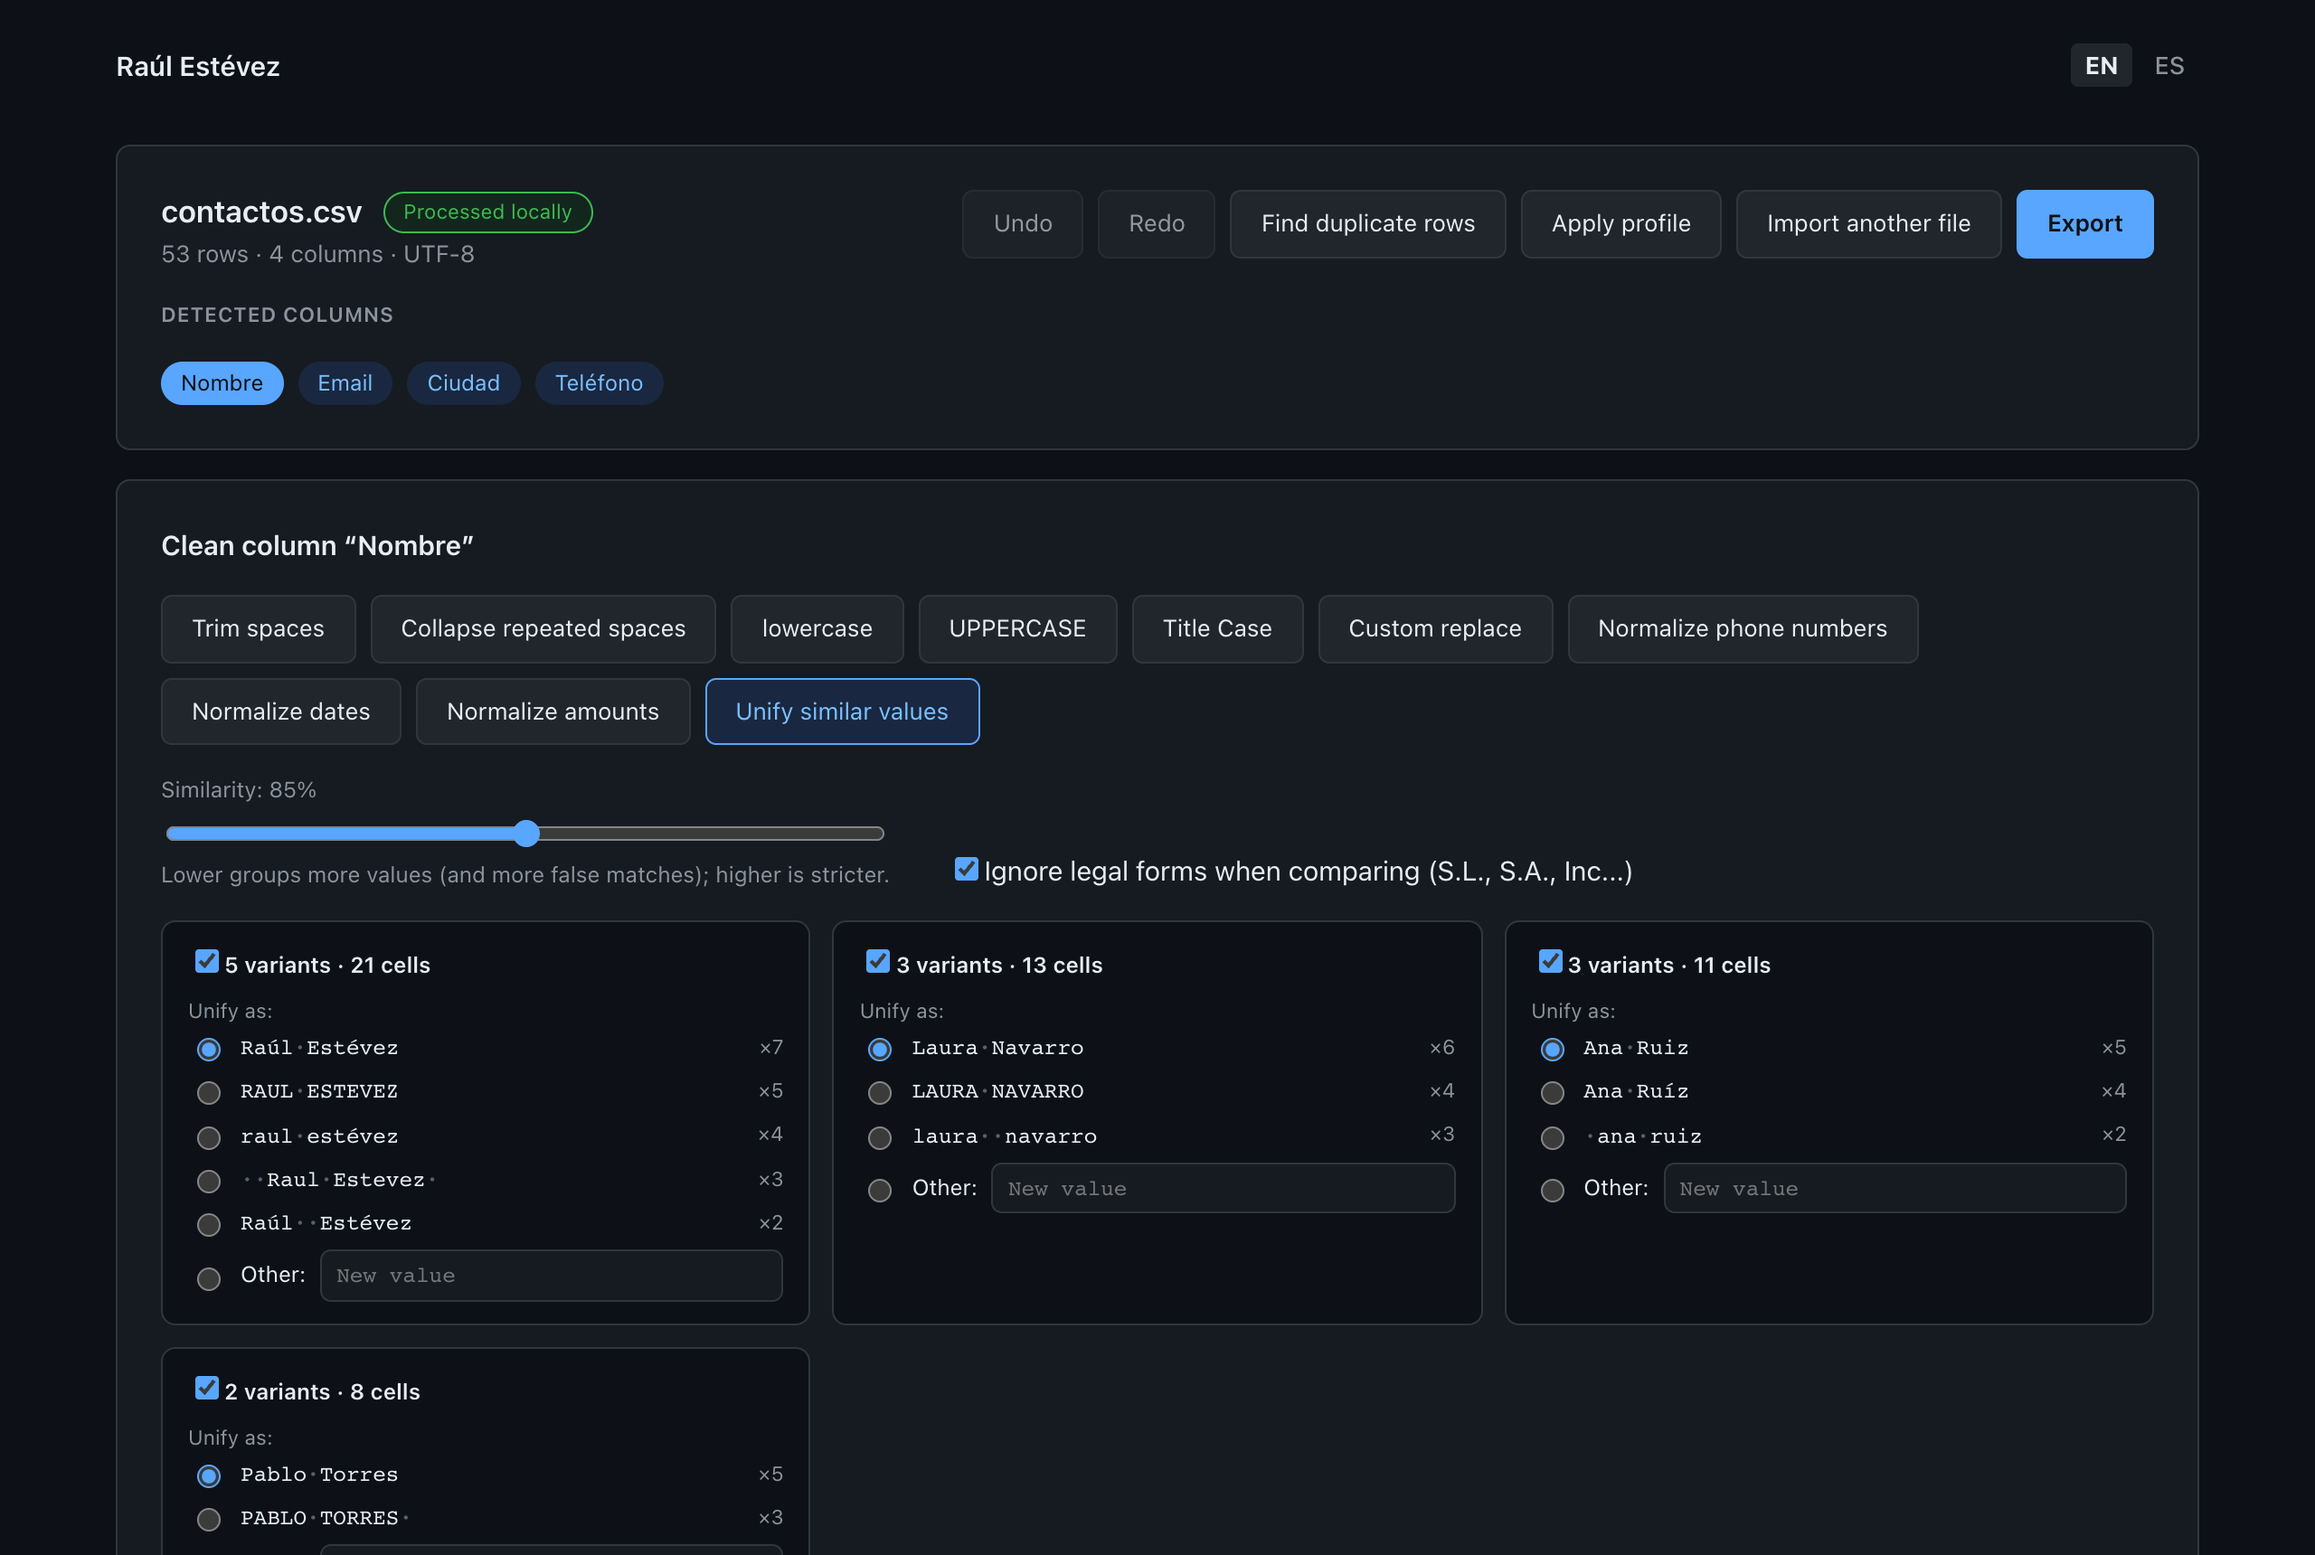
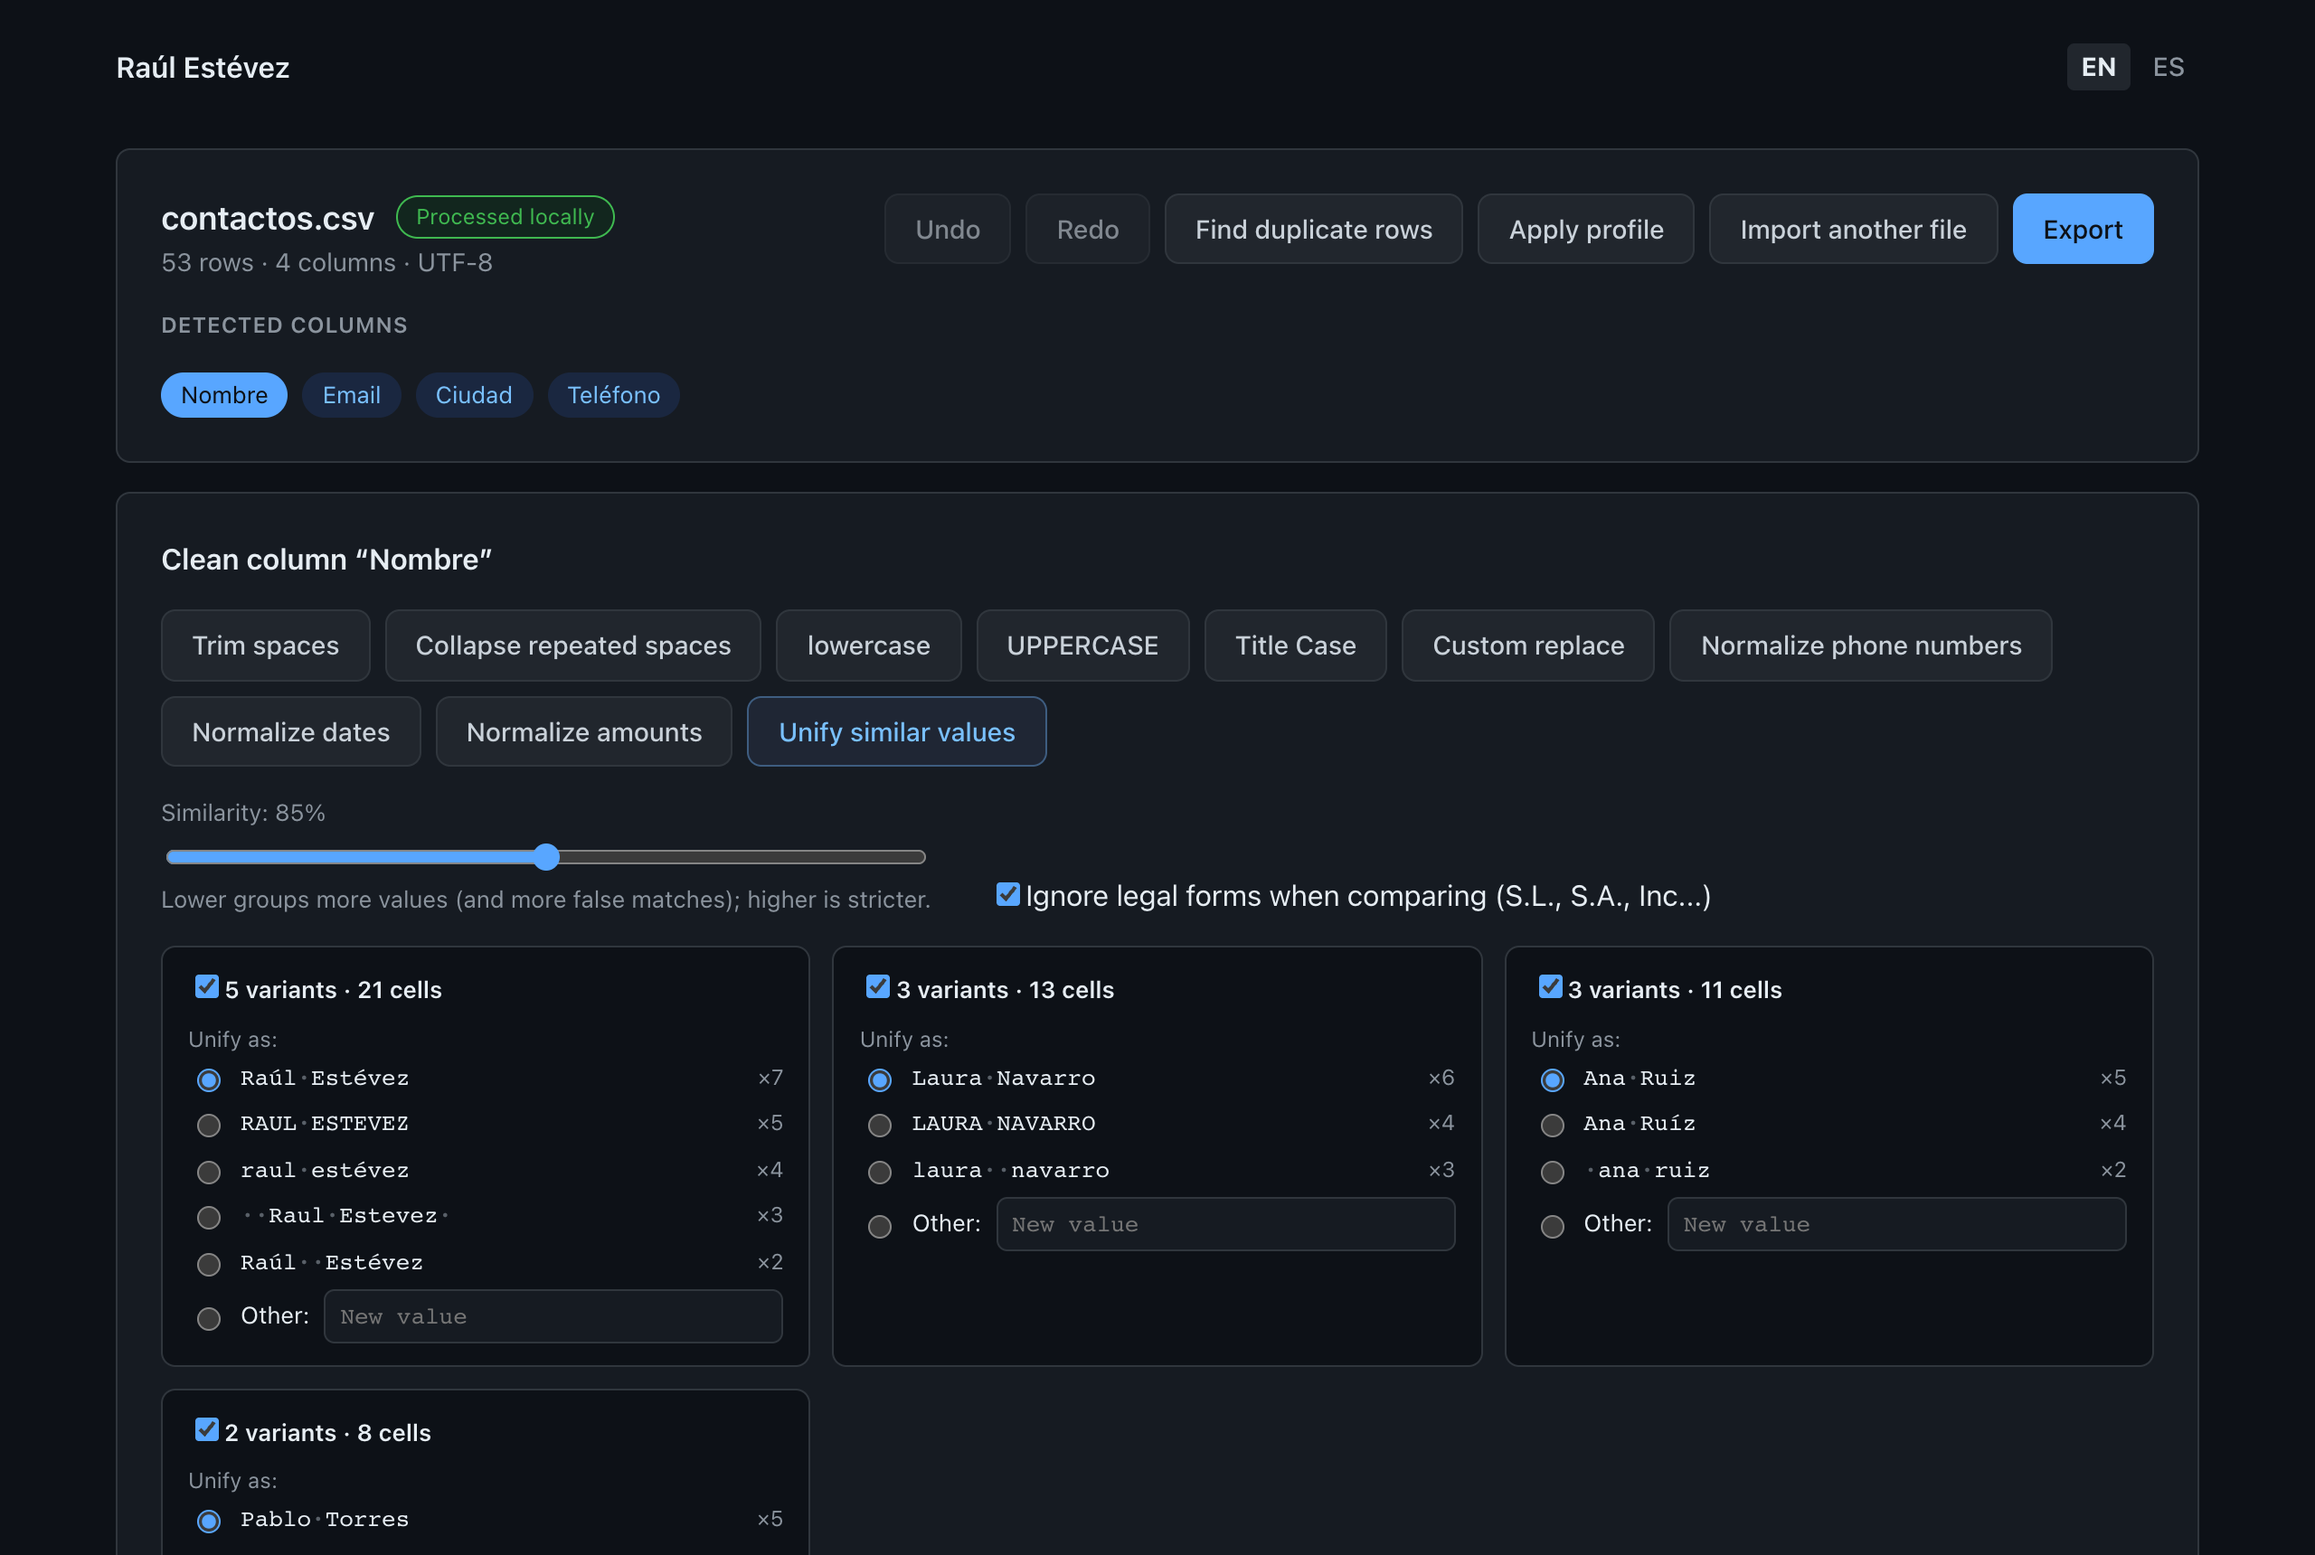
style(web): match portfolio button and base font styles

diff --git a/web/src/index.css b/web/src/index.css
@@ -5,6 +5,7 @@
   --surface-raised: #21262d;
   --border: #30363d;
   --text: #e6edf3;
+  --btn-text: #c9d1d9;
   --muted: #8b949e;
   --accent: #58a6ff;
   --accent-soft: #1a2740;
@@ -16,11 +17,11 @@
   --warning-soft: #2b2111;
 
   --radius: 8px;
-  --sans: system-ui, -apple-system, BlinkMacSystemFont, 'Segoe UI', sans-serif;
+  --sans: system-ui, -apple-system, BlinkMacSystemFont, sans-serif;
   --mono: 'SF Mono', 'Fira Code', 'Cascadia Code', ui-monospace, monospace;
 
   color-scheme: dark;
-  font: 15px/1.5 var(--sans);
+  font: 16px/1.5 var(--sans);
   color: var(--text);
   background: var(--page-bg);
   -webkit-font-smoothing: antialiased;
@@ -72,18 +73,30 @@ button {
   background: var(--surface);
 }
 
+/* Same as the portfolio .btn */
 .button {
-  padding: 8px 16px;
+  display: inline-block;
+  padding: 0.5rem 1rem;
   border: 1px solid var(--border);
-  border-radius: 6px;
+  border-radius: 8px;
   background: var(--surface-raised);
-  color: var(--text);
-  font-size: 0.875rem;
+  color: var(--btn-text);
+  font-size: 0.9rem;
+  font-weight: 500;
+  line-height: 1.5;
   cursor: pointer;
+  transition:
+    background-color 0.15s ease,
+    border-color 0.15s ease;
+}
+
+.button:hover {
+  text-decoration: none;
 }
 
 .button:hover:not(:disabled) {
   border-color: var(--muted);
+  background: var(--border);
 }
 
 .button:disabled {
@@ -95,7 +108,6 @@ button {
   border-color: var(--accent);
   background: var(--accent);
   color: var(--page-bg);
-  font-weight: 600;
 }
 
 .button--primary:hover:not(:disabled) {

diff --git a/web/src/components/IntroPanel.css b/web/src/components/IntroPanel.css
@@ -66,10 +66,6 @@
   gap: 8px;
 }
 
-.intro__actions .button:hover {
-  text-decoration: none;
-}
-
 @media (max-width: 600px) {
   .intro {
     padding: 20px 16px;
